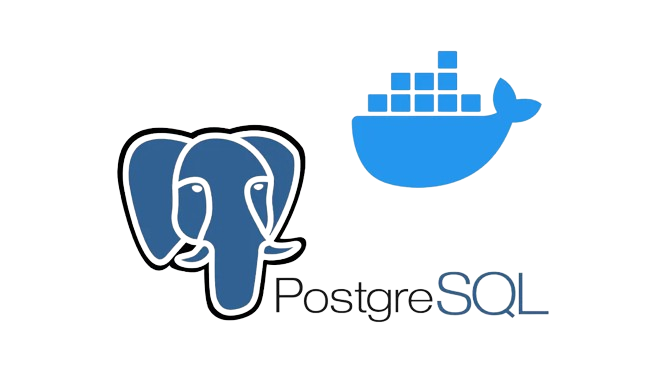
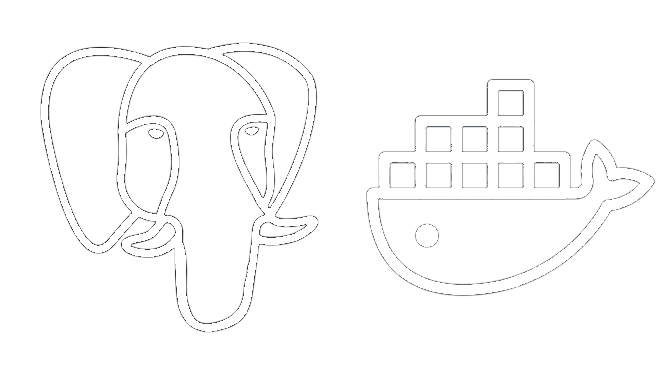
feat: Atualiza imagens

diff --git a/styles/style.css b/styles/style.css
@@ -102,7 +102,7 @@ body {
   text-align: left;
   margin-bottom: 50px;
   border-radius: 15px;
-  background-color: #d2d2f8;
+  background-color: rgb(62, 60, 60);
 }
 
 .faq-item h2 {
@@ -116,7 +116,7 @@ body {
   margin: 0 auto;
   margin-left: 0;
   padding: 10px;
-  color:#333
+  color: white
 }
 
 .contact-form {
@@ -165,7 +165,7 @@ body {
 
 .methodology-section {
   margin-bottom: 100px;
-  background-color: #d2d2f8;
+  background-color: rgb(62, 60, 60);
   border-radius: 15px;
   padding: 20px;
 }
@@ -173,7 +173,7 @@ body {
 .methodology-section p {
   font-size: 28px;
   margin-bottom: 20px;
-  color: #000;
+  color: white;
 }
 
 .methodology-section img {
